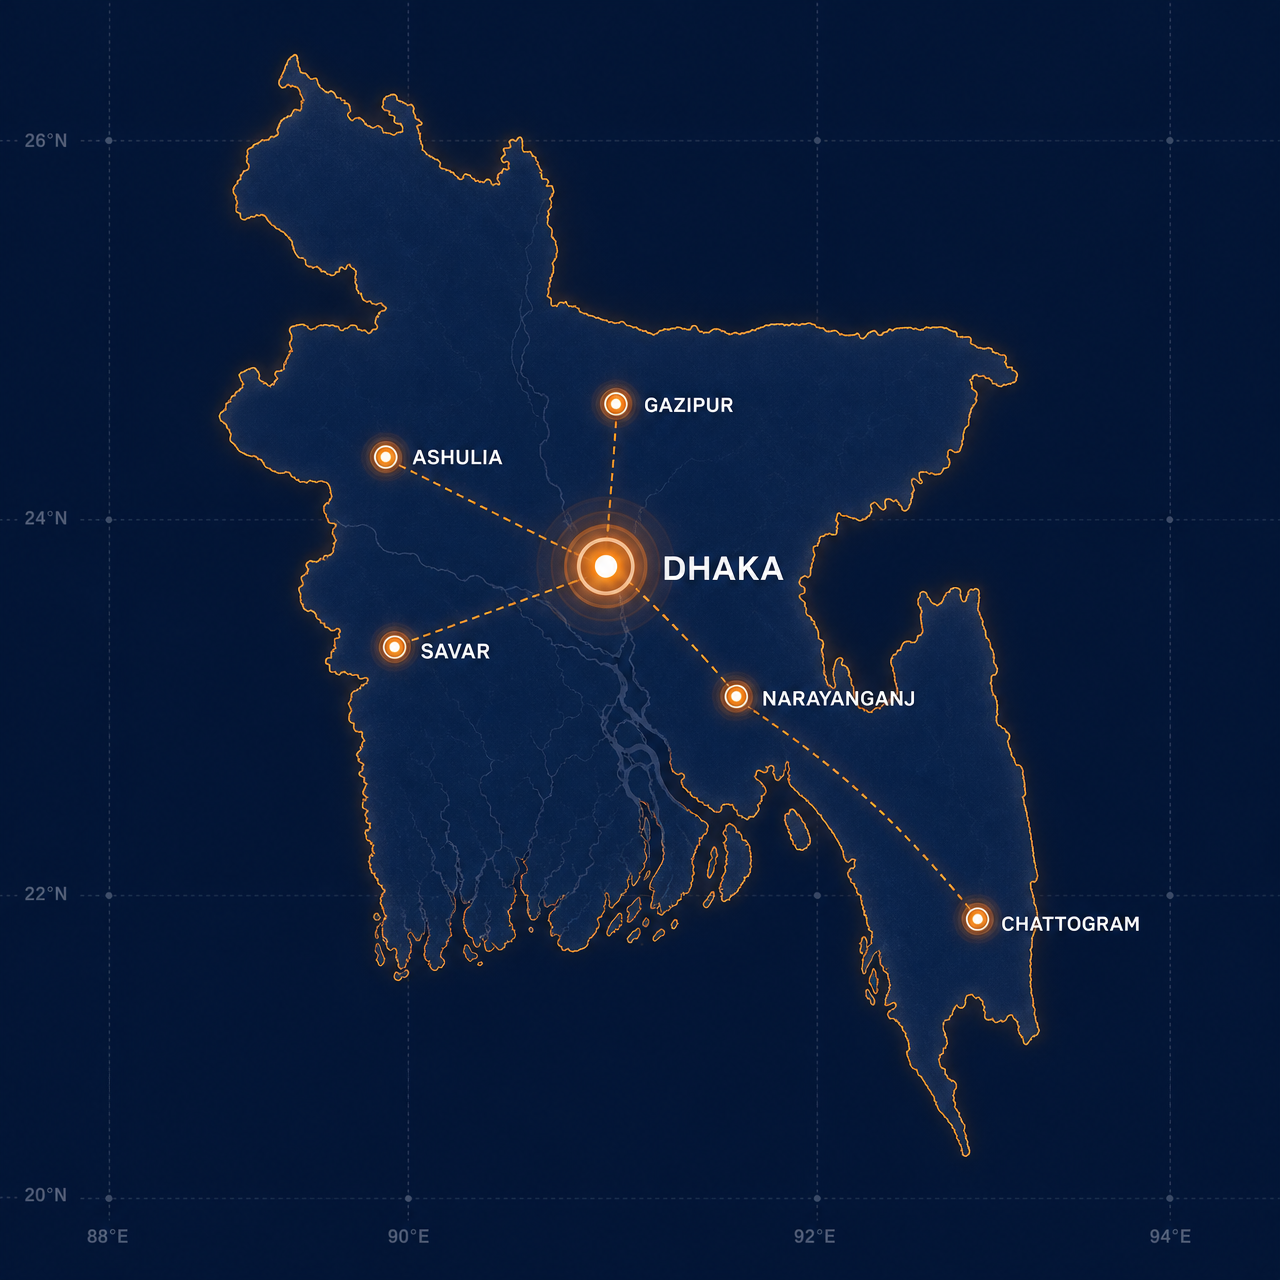
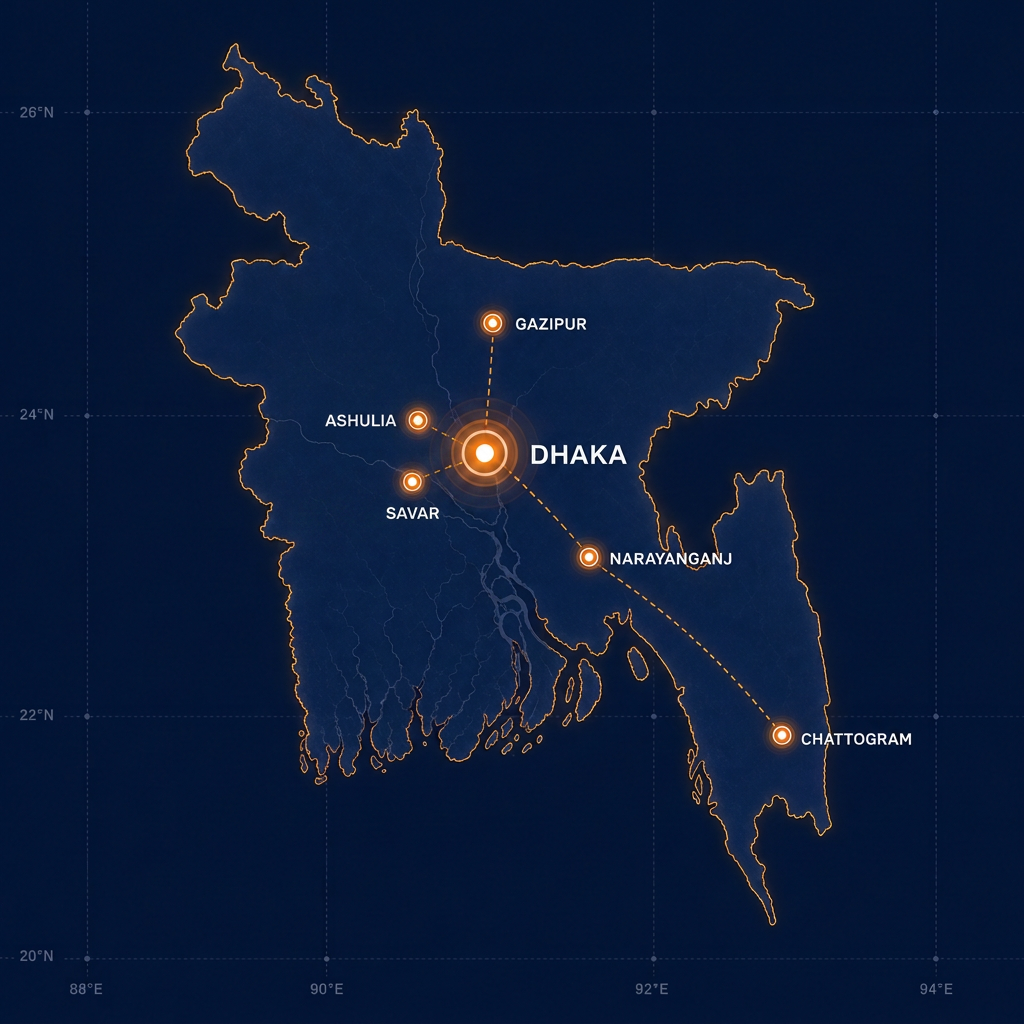
updated the navbar links, about page, HeroSection of the Home page, products page images

diff --git a/src/routes/about.tsx b/src/routes/about.tsx
@@ -9,7 +9,7 @@ import {
   Search,
   Truck,
 } from "lucide-react";
-import heroAbout from "@/assets/hero-about.jpg";
+import heroAbout from "@/assets/AboutHero.jpeg";
 import qualityImg from "@/assets/about-quality.jpg";
 import {
   CTABand,
@@ -126,8 +126,18 @@ function About() {
   return (
     <>
       {/* Hero */}
-      <section className="relative overflow-hidden bg-cream px-5 pb-16 pt-12 lg:px-8 lg:pb-24 lg:pt-16">
-        <div className="mx-auto grid max-w-7xl items-center gap-12 lg:grid-cols-[1fr_1.05fr]">
+      <section className="relative overflow-hidden px-5 pb-16 pt-12 lg:px-8 lg:pb-24 lg:pt-16">
+        {/* Background image */}
+        <img
+          src={heroAbout}
+          alt="BGS merchandising team reviewing fabric swatches in a sunlit Dhaka office"
+          className="absolute inset-0 h-full w-full object-cover"
+        />
+        {/* Readability overlay: solid cream on the left where text sits,
+            fading to mostly-transparent on the right where the image shows through */}
+        <div className="absolute inset-0 bg-linear-to-r from-cream via-cream/90 to-cream/15" />
+
+        <div className="relative mx-auto grid max-w-7xl items-center gap-12 lg:grid-cols-[2fr_1.05fr]">
           <Reveal>
             <span className="eyebrow">Our Story</span>
             <h1 className="mt-5 font-display text-3xl font-extrabold leading-[1.3] text-navy sm:text-4xl lg:text-[2.75rem]">
@@ -135,19 +145,26 @@ function About() {
               <span className="text-rust"> trust, transparency </span>
               and committed delivery.
             </h1>
-            <p className="mt-6 max-w-xl text-base leading-relaxed text-muted-foreground">
-              Brother&apos;s Global Sourcing (BGS) is a Dhaka-based garments
-              buying house created to be a transparent, reliable bridge between
-              global fashion brands and Bangladesh&apos;s world-class garment
-              manufacturing industry.
+            <p className="mt-6 max-w-2xl text-base leading-relaxed text-muted-foreground">
+              Brother's Global Sourcing (BGS) was founded with a simple vision:
+              to create a transparent, reliable bridge between global fashion
+              brands and Bangladesh's world-class garment manufacturing
+              industry.
             </p>
-            <p className="mt-5 max-w-xl text-base leading-relaxed text-muted-foreground">
-              Founded by garment-industry professionals who saw buyers struggle
-              with communication, quality consistency and supply-chain
-              visibility, BGS acts as your extended sourcing office on the
-              ground — from first tech pack to final shipment.
+            <p className="mt-5 max-w-2xl text-base leading-relaxed text-muted-foreground">
+              Our journey began when our founders, with decades of combined
+              experience in the garment industry, recognized a gap in the
+              market. While Bangladesh offered exceptional manufacturing
+              capabilities, international buyers often faced challenges with
+              communication, quality consistency, and supply chain transparency.
             </p>
-            <div className="mt-8 flex flex-wrap gap-x-8 gap-y-3">
+            <p className="mt-5 max-w-2xl text-base leading-relaxed text-muted-foreground">
+              BGS was established to address these challenges head-on, building
+              a reputation for trust, transparency, and committed delivery that
+              has made us the preferred sourcing partner for brands across
+              Europe, North America, and Australia.
+            </p>
+            <div className="mt-8 max-w-xl flex flex-wrap gap-x-8 gap-y-3">
               {[
                 "8+ years of industry experience",
                 "50+ compliant partner factories",
@@ -163,25 +180,9 @@ function About() {
               ))}
             </div>
           </Reveal>
-          <Reveal delay={140}>
-            <div className="relative">
-              <img
-                src={heroAbout}
-                alt="BGS merchandising team reviewing fabric swatches in a sunlit Dhaka office"
-                width={1600}
-                height={1008}
-                className="w-full rounded-[2.25rem] object-cover shadow-lift"
-              />
-              <div className="absolute -bottom-6 left-6 hidden rounded-2xl border border-border bg-white/95 px-5 py-4 shadow-card backdrop-blur sm:block">
-                <p className="font-display text-xl font-extrabold text-rust">
-                  Est. in Bangladesh
-                </p>
-                <p className="text-[0.7rem] uppercase tracking-[0.16em] text-muted-foreground">
-                  Uttara, Dhaka — Head Office
-                </p>
-              </div>
-            </div>
-          </Reveal>
+
+          {/* Right column intentionally left empty — background image shows through here */}
+          <div aria-hidden className="hidden lg:block" />
         </div>
       </section>
 

diff --git a/src/components/site/HeroSection.tsx b/src/components/site/HeroSection.tsx
@@ -42,27 +42,24 @@ export function HeroSection() {
 
       <div className="mx-auto grid max-w-7xl items-center gap-12 lg:grid-cols-[1fr_1.05fr]">
         <div>
-          <span className="inline-flex items-center gap-3 text-[0.7rem] font-semibold uppercase tracking-[0.22em] text-rust">
-            <span className="h-px w-8 bg-rust" />
-            Garments Buying House · Dhaka
-          </span>
-
-          <h1 className="mt-5 text-3xl font-extrabold leading-[1.2] text-navy sm:text-4xl lg:text-[2.75rem]">
-            Your trusted partner in{" "}
-            <span className="text-rust">ready-made</span> garments sourcing.
-          </h1>
-
-          <p className="mt-6 max-w-xl text-base leading-relaxed text-navy/70">
-            Brothers Global Sourcing (BGS) directly sources high-quality
-            garments from trusted and compliant Bangladeshi factories and
-            exports them to global brands, importers, and retailers — on Trust,
-            Transparency, and Committed Delivery.
-          </p>
-
-          <div className="mt-9 flex flex-wrap gap-3">
-            <PrimaryLink to="/products">Our Capabilities</PrimaryLink>
-            <GhostLink to="/contact">Work With Us</GhostLink>
-          </div>
+          <Reveal>
+            <span className="eyebrow">Garments Buying House · Dhaka</span>
+            <h1 className="mt-5 font-display text-3xl font-extrabold leading-[1.3] text-navy sm:text-4xl lg:text-[2.75rem]">
+              Your trusted partner in
+              <span className="text-rust"> ready-made </span>
+              garments sourcing.
+            </h1>
+            <p className="mt-6 max-w-xl text-base leading-relaxed text-muted-foreground">
+              Brothers Global Sourcing (BGS) directly sources high-quality
+              garments from trusted and compliant Bangladeshi factories and
+              exports them to global brands, importers, and retailers — on
+              Trust, Transparency, and Committed Delivery.
+            </p>
+            <div className="mt-9 flex flex-wrap gap-3">
+              <PrimaryLink to="/products">Our Capabilities</PrimaryLink>
+              <GhostLink to="/contact">Work With Us</GhostLink>
+            </div>
+          </Reveal>
         </div>
 
         {/* Right column intentionally empty on desktop so the background video reads as the hero visual */}
@@ -70,7 +67,7 @@ export function HeroSection() {
       </div>
 
       <div className="mx-auto mt-18 max-w-7xl">
-        <p className="mb-3 text-center text-[0.65rem] font-semibold uppercase tracking-[0.2em] text-navy/45">
+        <p className="mb-3 text-center text-[0.65rem] font-bold uppercase tracking-[0.2em] text-navy/75">
           Trusted by global buyers
         </p>
         <StatBar items={stats} />

diff --git a/src/routes/index.tsx b/src/routes/index.tsx
@@ -11,11 +11,13 @@ import {
   Sparkles,
   Users,
 } from "lucide-react";
-import heroHome from "@/assets/hero-home.jpg";
-import catKnit from "@/assets/cat-knitwear.jpg";
-import catWoven from "@/assets/cat-woven.jpg";
-import catSport from "@/assets/cat-sportswear.jpg";
-import catDenim from "@/assets/cat-denim.jpg";
+import catKnit from "@/assets/bgs-01-knitwear.jpg";
+import catWoven from "@/assets/bgs-02-woven-apparel.jpg";
+import catSweater from "@/assets/bgs-03-sweaters.jpg";
+import catSport from "@/assets/bgs-04-sportswear.jpg";
+import catWorkWear from "@/assets/bgs-05-workwear.jpg";
+import catDenim from "@/assets/bgs-06-denim.jpg";
+import catAccessories from "@/assets/bgs-07-accessories.jpg";
 import marketUsa from "@/assets/market-usa.jpg";
 import marketCanada from "@/assets/market-canada.jpg";
 import marketEurope from "@/assets/market-europe.jpg";
@@ -128,16 +130,34 @@ const categories = [
     note: "Shirts, bottoms, outerwear",
   },
   {
+    to: "/sweater",
+    label: "Sweaters",
+    img: catSweater,
+    note: "Sweaters, pullovers, cardigans",
+  },
+  {
     to: "/sportswear",
     label: "Sportswear",
     img: catSport,
     note: "Training, gym, athleisure",
   },
   {
+    to: "/workwear",
+    label: "WorkWear",
+    img: catWorkWear,
+    note: "Outdoor & indoor workwear,",
+  },
+  {
     to: "/denimwear",
     label: "Denim",
     img: catDenim,
     note: "Jeans, jackets, dungarees",
+  },
+  {
+    to: "/accessories",
+    label: "Accessories",
+    img: catAccessories,
+    note: "Caps, jute bags, tote bags",
   },
 ] as const;
 
@@ -193,10 +213,10 @@ function Home() {
 
       <Section>
         <Heading
-          eyebrow="Product Categories"
-          title="Multiple Categories."
-          accent="One Coordinated Journey."
-          intro="Seven product categories, developed and followed up by a single merchandising team."
+          eyebrow="Our Product Line"
+          title="Product"
+          accent="Categories."
+          intro="We support a wide range of ready-made garments for men, women, and kids across woven, knit, denim, sweaters, sportswear, and workwear segments."
         />
         <div className="mt-14 grid gap-6 sm:grid-cols-2 lg:grid-cols-4">
           {categories.map((c, i) => (
@@ -229,9 +249,6 @@ function Home() {
               </Link>
             </Reveal>
           ))}
-        </div>
-        <div className="mt-12 flex justify-center">
-          <GhostLink to="/products">View all 7 categories</GhostLink>
         </div>
       </Section>
 

diff --git a/src/routes/products.tsx b/src/routes/products.tsx
@@ -2,13 +2,13 @@ import { createFileRoute, Link } from "@tanstack/react-router";
 import { useState } from "react";
 import { Leaf, Palette, Ruler, Sparkles } from "lucide-react";
 import heroProducts from "@/assets/hero-products.jpg";
-import catKnit from "@/assets/cat-knitwear.jpg";
-import catWoven from "@/assets/cat-woven.jpg";
-import catSweaters from "@/assets/cat-sweaters.jpg";
-import catSport from "@/assets/cat-sportswear.jpg";
-import catWork from "@/assets/cat-workwear.jpg";
-import catDenim from "@/assets/cat-denim.jpg";
-import catAcc from "@/assets/cat-accessories.jpg";
+import catKnit from "@/assets/bgs-01-knitwear.jpg";
+import catWoven from "@/assets/bgs-02-woven-apparel.jpg";
+import catSweater from "@/assets/bgs-03-sweaters.jpg";
+import catSport from "@/assets/bgs-04-sportswear.jpg";
+import catWorkWear from "@/assets/bgs-05-workwear.jpg";
+import catDenim from "@/assets/bgs-06-denim.jpg";
+import catAccessories from "@/assets/bgs-07-accessories.jpg";
 import { CTABand, Heading, IconCard, Reveal, Section } from "@/components/site";
 
 export const Route = createFileRoute("/products")({
@@ -59,12 +59,25 @@ const cats: Cat[] = [
     items: "Shirts, bottoms, outerwear, sleepwear, dresses & skirts, kids",
   },
   {
+    name: "Sweaters",
+    img: catSweater,
+    group: "Knit",
+    items: "Sweaters, pullovers, cardigans",
+  },
+  {
     name: "Sportswear & Athleisure",
     img: catSport,
     group: "Performance",
     to: "/sportswear",
     items:
       "Training & teamwear, gym & studio, running, tracksuits, modest activewear",
+  },
+  {
+    name: "Workwear & Uniforms",
+    img: catWorkWear,
+    group: "Woven",
+    items:
+      "Outdoor & indoor workwear, medical uniforms, chef's gowns, school uniforms",
   },
   {
     name: "Denim",
@@ -75,21 +88,8 @@ const cats: Cat[] = [
       "Jeans, jackets, overalls & dungarees, trousers, shirts, shorts, skirts, workwear",
   },
   {
-    name: "Sweaters",
-    img: catSweaters,
-    group: "Knit",
-    items: "Sweaters, pullovers, cardigans",
-  },
-  {
-    name: "Workwear & Uniforms",
-    img: catWork,
-    group: "Woven",
-    items:
-      "Outdoor & indoor workwear, medical uniforms, chef's gowns, school uniforms",
-  },
-  {
     name: "Accessories",
-    img: catAcc,
+    img: catAccessories,
     group: "Accessories",
     items: "Caps, jute bags, tote bags, backpacks, boots, sneakers, scarves",
   },

diff --git a/src/components/site/Navbar.tsx b/src/components/site/Navbar.tsx
@@ -18,8 +18,8 @@ const mainLinks = [
   { to: "/about", label: "About", exists: true },
   { to: "/services", label: "Services", exists: false },
   { to: "/products", label: "Products", exists: true, hasDropdown: true },
-  { to: "#factory", label: "Factories", exists: true },
-  { to: "#sustainability", label: "Sustainability", exists: true },
+  { to: "/#factory", label: "Factories", exists: true },
+  { to: "/#sustainability", label: "Sustainability", exists: true },
 ] as const;
 
 // Typed <Link> for routes that exist in routeTree.gen.ts, plain <a> for the
